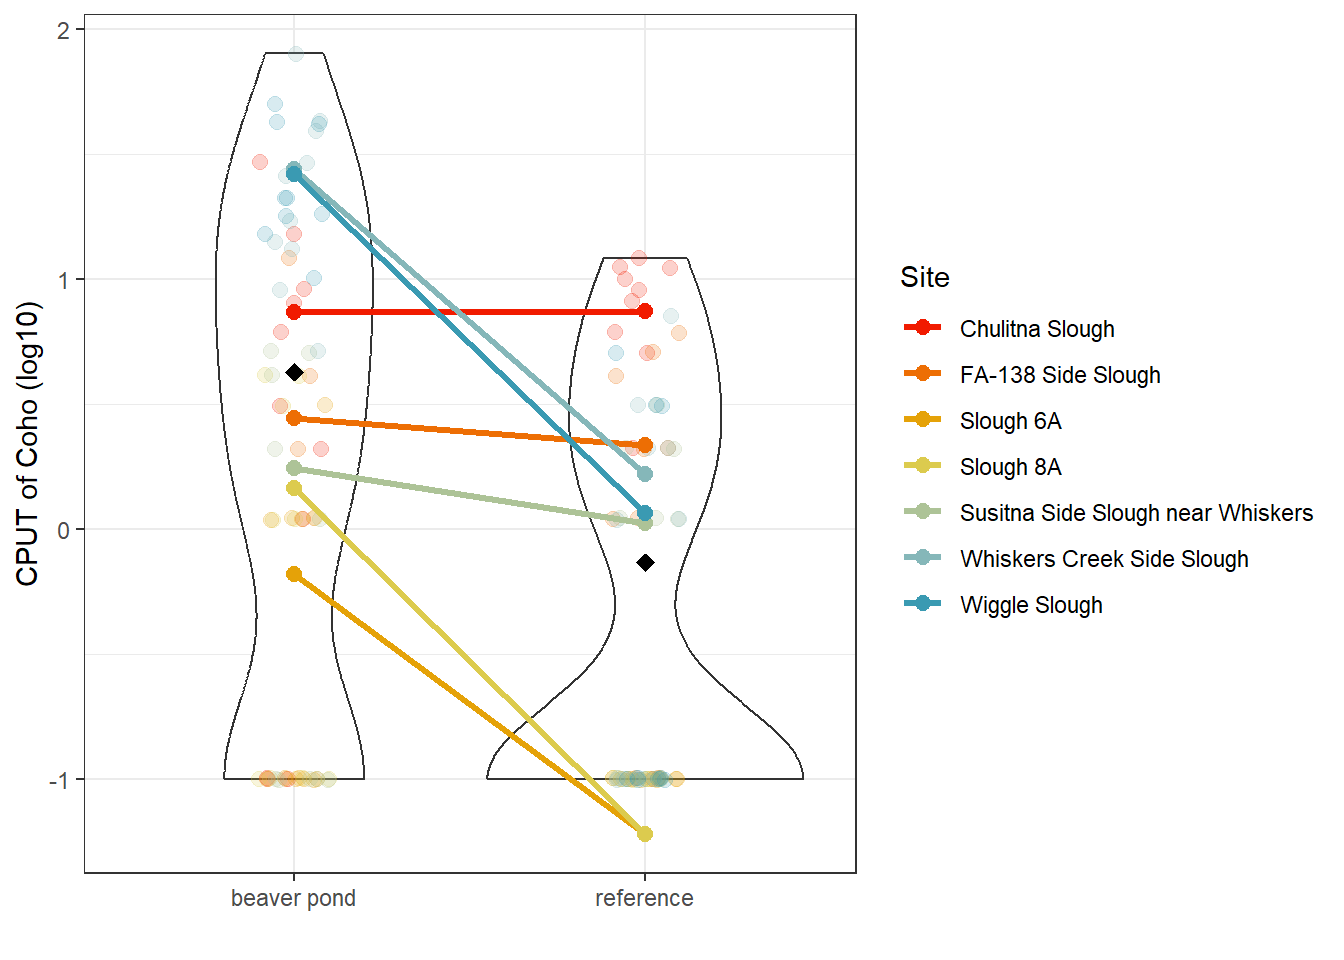
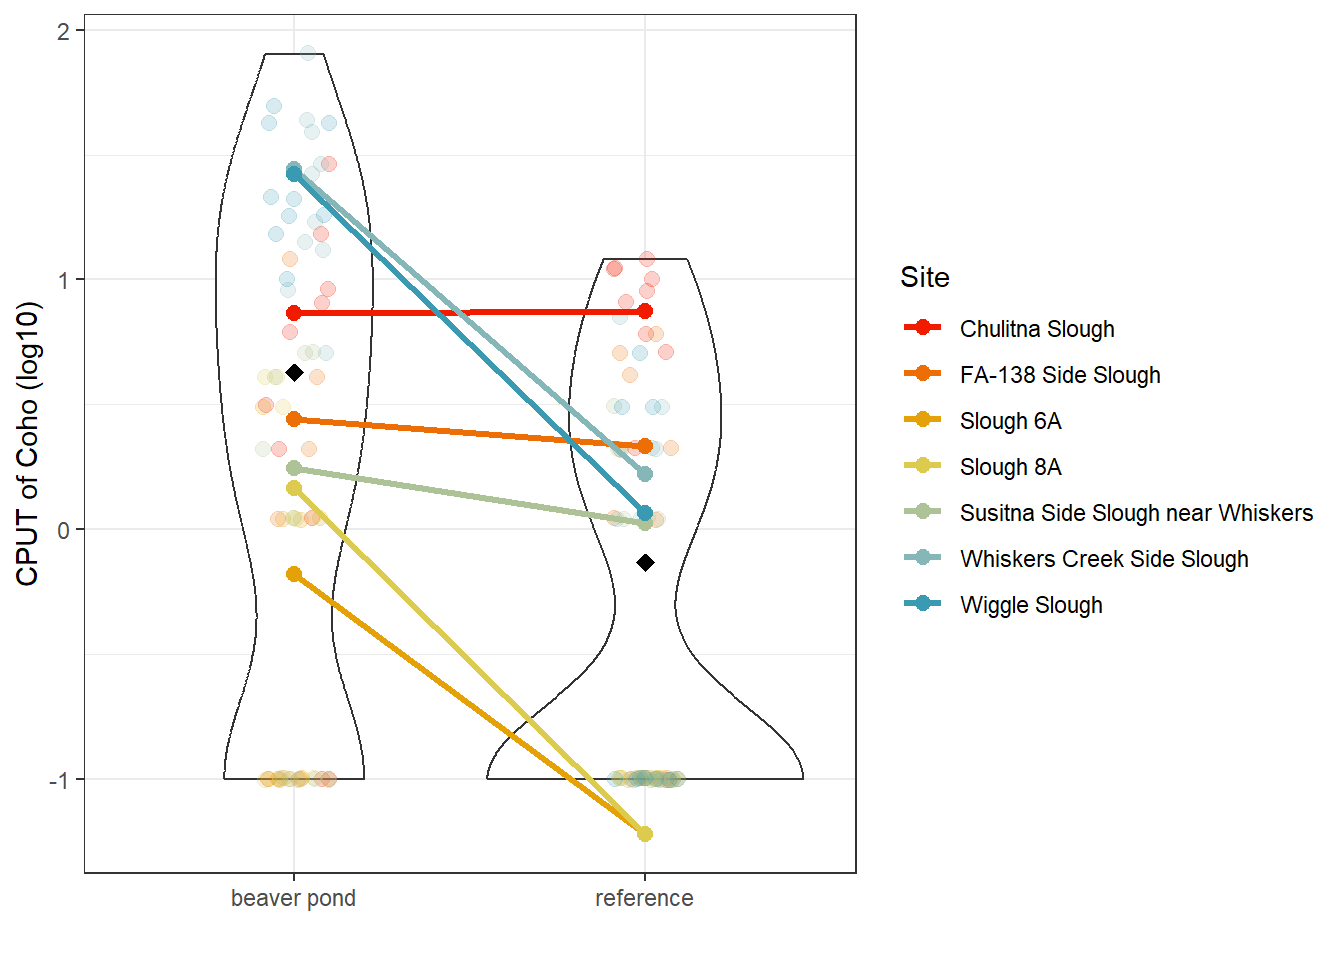
add fig1 as png

diff --git a/docs/Beaver_coho_analysis.html b/docs/Beaver_coho_analysis.html
@@ -116,8 +116,8 @@ ul.task-list li input[type="checkbox"] {
 <figcaption class="figure-caption"><strong>Beaver pond in Alaska</strong> <a href="https://alaskamagazine.com/authentic-alaska/wildlife-nature/beavers-make-their-mark-on-alaska/">photo reference</a></figcaption></figure>
 </div>
 <section id="purpose" class="level3 justify"><h3 class="anchored" data-anchor-id="purpose"><strong>Purpose</strong></h3>
-<p>In collaboration with folks at HCD (Luke Byker and Julianne Rosset), Mason and Mallarie analyzed success of coho within beaver bonds and downstream reference areas within 7 streams. In this “Short Report”, we illustrate our methods on analysis, written results with corresponding figures and a small discussion on specific future variables one might want to consider if expanding on this work.</p>
-<section id="objective-to-understand-how-beaver-pond-presence-influences-coho-overwintering-success" class="level6"><h6 class="anchored" data-anchor-id="objective-to-understand-how-beaver-pond-presence-influences-coho-overwintering-success"><strong><em>Objective: To understand how beaver pond presence influences coho overwintering success</em></strong></h6>
+<p>In collaboration with folks at HCD (Luke Byker and Julianne Rosset), Mason Smith and Mallarie Yeager analyzed coho success within beaver bonds and downstream reference sites within 7 streams. In this “Short Report”, we illustrate our methods on analysis, written results with corresponding figures and a small discussion on specific future variables one might want to consider if expanding on this work. This report will be integrated into our manuscript which we plan to submit soon. Citations and links will be updated once available.</p>
+<section id="objective-to-understand-how-beaver-pond-presence-influences-coho-overwintering-success" class="level5"><h5 class="anchored" data-anchor-id="objective-to-understand-how-beaver-pond-presence-influences-coho-overwintering-success"><strong><em>Objective: To understand how beaver pond presence influences coho overwintering success</em></strong></h5>
 <p><strong>Question 1:</strong> Does beaver pond presence enhance coho catch per unit trap (CPUT)?</p>
 <p><strong>Question 2:</strong> Are there environmental drivers which may explain beaver pond enhancement?</p>
 </section></section><div class="quarto-figure quarto-figure-center">
@@ -129,13 +129,11 @@ ul.task-list li input[type="checkbox"] {
 <p>To analyze whether beaver ponds enhance juvenile coho presence in this study, we used a one-way paired T-test to test whether catch per unit trap (CPUT) of coho was significantly higher at beaver ponds compared to reference locations within a site (i.e., river stem). The paired design of the paired one-way T-test allows us to address the non-independence within a site, while the one-way allows for a hypothesis driven test that beaver ponds result in more coho than their paired reference locations. Once testing whether beaver ponds enhance coho CPUT, we can examine whether specific environmental factors explain beaver pond enhancement through correlative models. We used generalized additive models (GAMs) to examine the relationship between coho beaver abundance and environmental conditions within beaver ponds or reference locations within a site. The site (i.e.&nbsp;river stem) of each dam was treated as a random effect due to the non-independence of treatment types (above vs below dams) within each river stem. This allowed for examining relationships between the coho beaver abundance and the fixed effects, while also taking into account the variation from random effects occurring at different levels within the population (West et al.&nbsp;2022). Before fitting models, we examined and removed environmental covariates which were highly correlated and log transformed coho CPUT to meet assumptions of normality. For model fitting we used the gam function in the ‘mgcv’ package in R (Wood, 2011). We tested the full covariate model then removed poor fitting covariates until we received the best fit model. We looked for the highest deviance explained while minimizing restricted maximum likelihood (REML) value.</p>
 </section></section><section id="results" class="level3"><h3 class="anchored" data-anchor-id="results"><strong>Results</strong></h3>
 <p>Although there was variation in CPUT across paired sites (i.e.&nbsp;river stems), we overall found beaver ponds had on average significantly higher catch per unit trap (CPUT) of coho compared to their paired reference locations (one-way paired T-test: t(6) = 3.22, p-value = 0.009; Figure 1). As beaver ponds do in fact enhance coho CPUT, we next looked at which environmental factors might explain the variation in CPUT across beaver pond vs reference and site. Our best fitting model consisted of the following environmental factors: dissolved oxygen, temperature, water depth, distance from mainstream river stem, and ice thickness.</p>
-<div class="cell">
-<div class="cell-output-display">
+<!-- #| label: Figure_1 -->
+<!-- #| fig-cap: "**Figure 1.** The CPUT of coho across site and treatment. The distribution of the raw CPUT of coho data across treatment is shown via the violin plot and the jittered opaque dots by site color. The site mean CPUT of coho across treatment is represented via the solid color points and the paired design of the sites across treatment via the connected lines. The overall mean CPUT of coho across treatment is shown by the black diamond points." -->
 <div class="quarto-figure quarto-figure-center">
-<figure class="figure"><p><img src="Beaver_coho_analysis_files/figure-html/Figure_1-1.png" class="img-fluid figure-img" width="672"></p>
+<figure class="figure"><p><img src="Figure1_CPUTofCoho_across_treatment_site.png" class="img-fluid figure-img"></p>
 <figcaption class="figure-caption"><strong>Figure 1.</strong> The CPUT of coho across site and treatment. The distribution of the raw CPUT of coho data across treatment is shown via the violin plot and the jittered opaque dots by site color. The site mean CPUT of coho across treatment is represented via the solid color points and the paired design of the sites across treatment via the connected lines. The overall mean CPUT of coho across treatment is shown by the black diamond points.</figcaption></figure>
-</div>
-</div>
 </div>
 </section><section id="references" class="level3"><h3 class="anchored" data-anchor-id="references"><strong>References</strong></h3>
 <p>West, B.T., Welch, K.B. and Galecki, A.T., 2022. Linear mixed models: a practical guide using statistical software. Chapman and Hall/CRC.</p>
